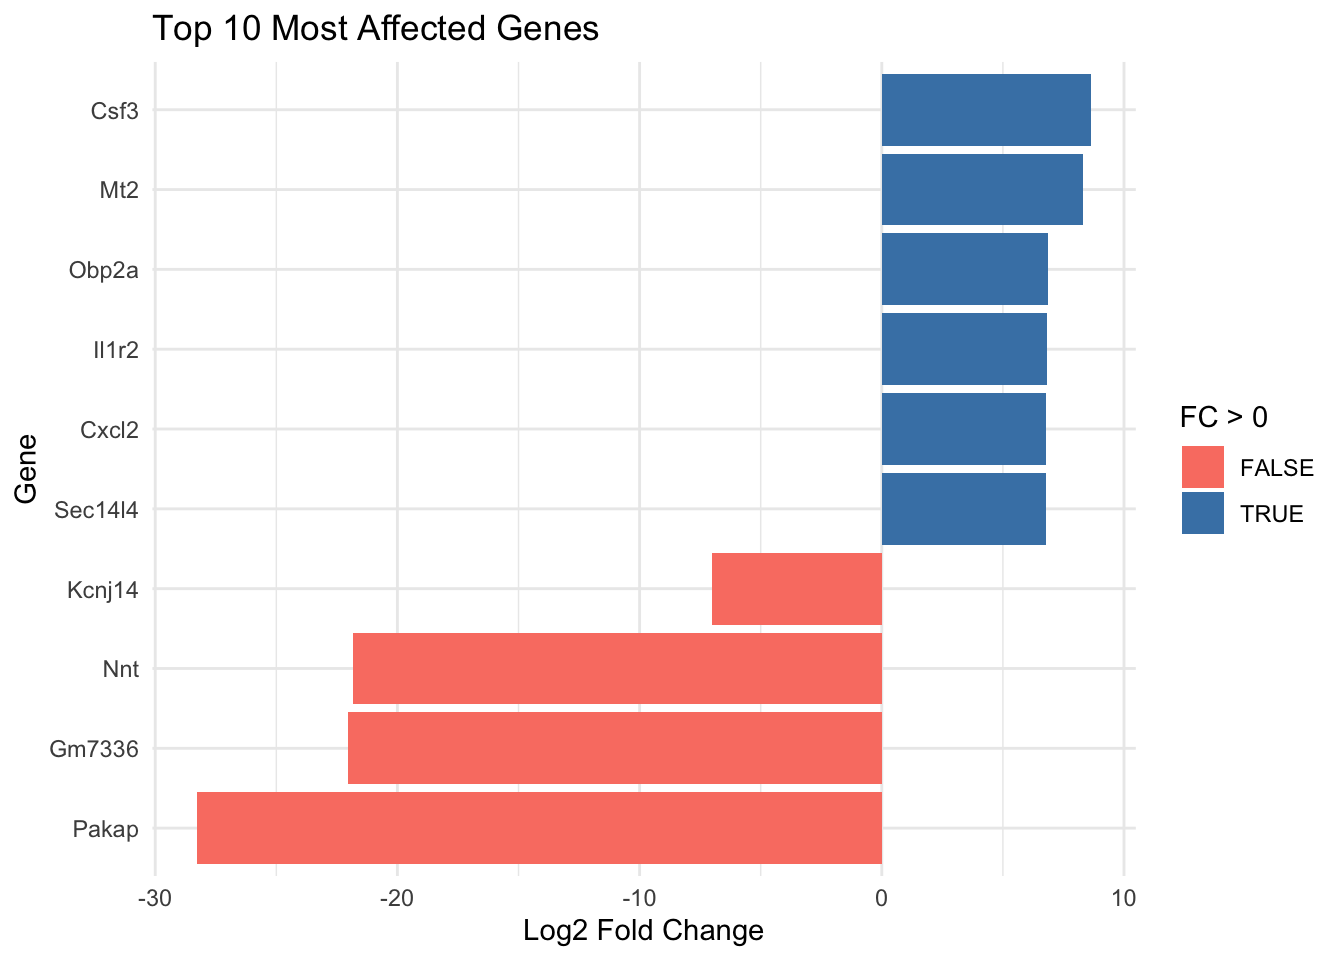
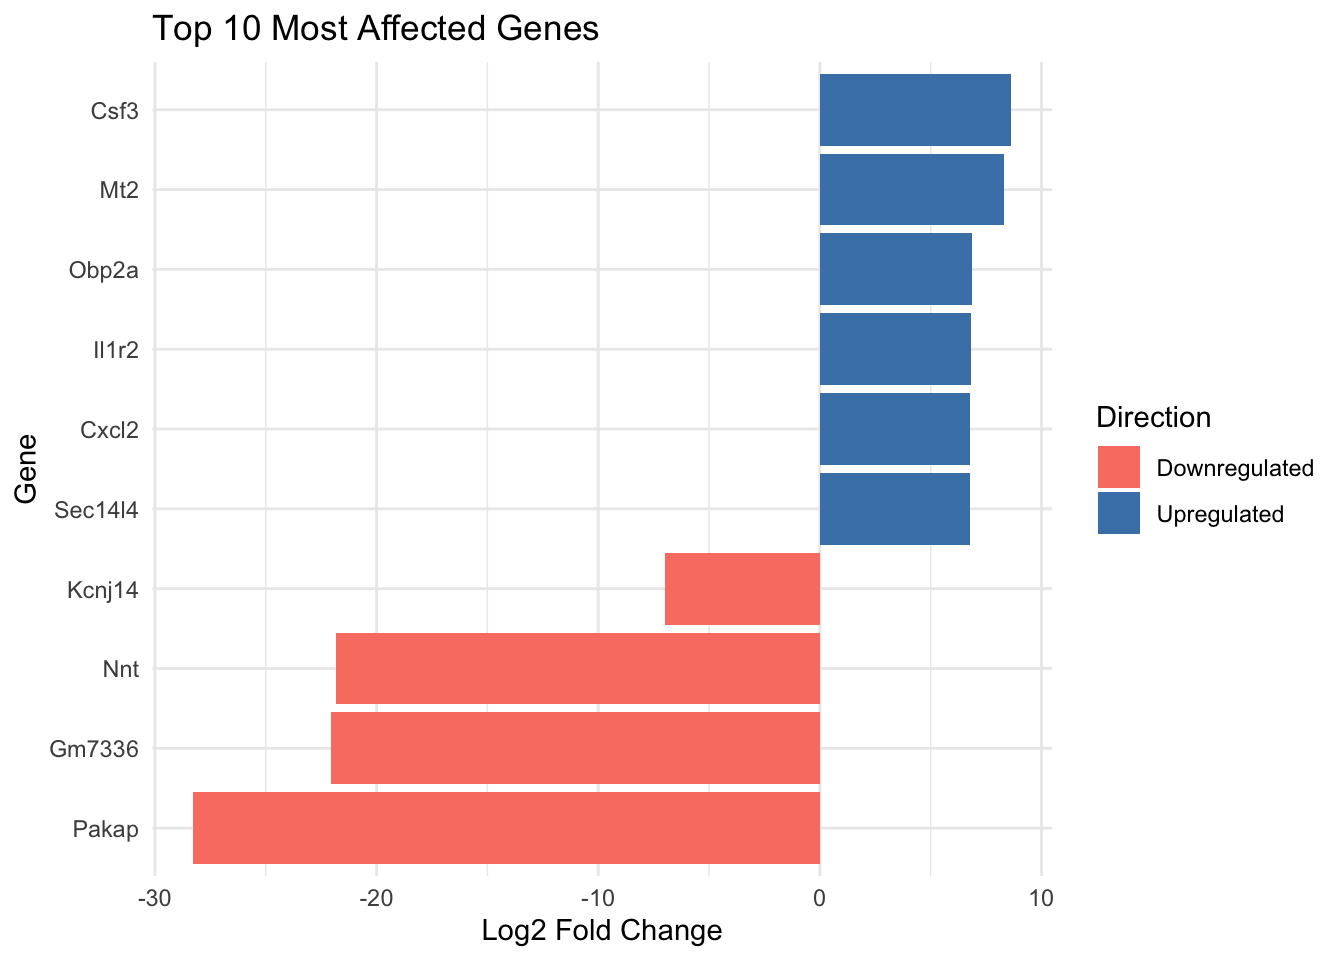
legend changes

diff --git a/_site/Projects/Project_title.html b/_site/Projects/Project_title.html
@@ -177,7 +177,13 @@ pre > code.sourceCode > span > a:first-child::before { text-decoration: underlin
 </div>
 <p>Sepsis begins as a primary infection. Like any other infection, Endothelial cells are a part of your first responders that directly and indirectly respond to pathogens. To that end, endothelial cells become activated where they undergo phenotypic changes to better attack a pathogen. This includes increasing their vascular permeability. So normally EC have tight barrier functions, however, they will diminish those barrier properties in order for leukocytes to extravasate into the tissue to help fight the pathogen. ECs with also increase their inflammatory response so they will be secreting cytokines to further recruit an immune response. ECs will also switch to a more procoagulant state so they can trap the pathogen from entering circulation. However, as the pathogen persists in cases like sepsis , these phenotypic changes that were once helpful in clearing the pathogen become detrimental to the host as the EC is unable to return to quiescence and this increased in vascular permeability gives rise to the vascular leakage driving organ dysfunction in sepsis complications.</p>
 <div class="column" style="width:80%;">
-<p><img src="ActivatedvsDysfunction.png" height="300" alt="Activated vs Dysfunctional Endothelium"> In order to look at endothelial cells specifically, my lab uses I am using a Cdh5-driven inducible cre to produce a hemagglutinin tagged ribosomal protein 22. So by tissue harvest follow by immunoprecipitation of the hemaglutein tagged polyribosomes, I can capture the actively translated mRNA from endothelial cells and determine which transcripts are enriched or depleted in endothelial cells based off an enrichment score based off IP-selected mRNA over the total tissue mRNA.</p>
+<div class="quarto-figure quarto-figure-center">
+<figure class="figure">
+<p><img src="ActivatedvsDysfunction.png" height="300" class="figure-img"></p>
+<figcaption>Activated vs Dysfunctional Endothelium</figcaption>
+</figure>
+</div>
+<p>In order to look at endothelial cells specifically, my lab uses I am using a Cdh5-driven inducible cre to produce a hemagglutinin tagged ribosomal protein 22. So by tissue harvest follow by immunoprecipitation of the hemaglutein tagged polyribosomes, I can capture the actively translated mRNA from endothelial cells and determine which transcripts are enriched or depleted in endothelial cells based off an enrichment score based off IP-selected mRNA over the total tissue mRNA.</p>
 <div class="column" style="width:100%;">
 <div class="quarto-figure quarto-figure-center">
 <figure class="figure">
@@ -196,8 +202,8 @@ pre > code.sourceCode > span > a:first-child::before { text-decoration: underlin
 <span id="cb1-5"><a href="#cb1-5" aria-hidden="true" tabindex="-1"></a>df <span class="ot">&lt;-</span> <span class="fu">read.table</span>(<span class="st">"FSIvsControlBead.csv"</span>, <span class="at">sep =</span> <span class="st">','</span>)</span></code><button title="Copy to Clipboard" class="code-copy-button"><i class="bi"></i></button></pre></div>
 </div>
 </section>
-<section id="step-2-set-appropriate-thresholds-for-the-data-i-am-interested-in" class="level1">
-<h1>Step 2: Set appropriate thresholds for the data I am interested in</h1>
+<section id="step-2-set-appropriate-thresholds" class="level1">
+<h1>Step 2: Set appropriate thresholds</h1>
 <div class="cell">
 <div class="sourceCode cell-code" id="cb2"><pre class="sourceCode r code-with-copy"><code class="sourceCode r"><span id="cb2-1"><a href="#cb2-1" aria-hidden="true" tabindex="-1"></a>fc_threshold <span class="ot">&lt;-</span> <span class="dv">1</span></span>
 <span id="cb2-2"><a href="#cb2-2" aria-hidden="true" tabindex="-1"></a>padj_threshold <span class="ot">&lt;-</span> <span class="fl">0.05</span></span></code><button title="Copy to Clipboard" class="code-copy-button"><i class="bi"></i></button></pre></div>
@@ -304,7 +310,16 @@ pre > code.sourceCode > span > a:first-child::before { text-decoration: underlin
 9           4.79000e-23 3.400000e-20
 10          9.14820e-04 1.807352e-02</code></pre>
 </div>
-<div class="sourceCode cell-code" id="cb12"><pre class="sourceCode r code-with-copy"><code class="sourceCode r"><span id="cb12-1"><a href="#cb12-1" aria-hidden="true" tabindex="-1"></a><span class="fu">ggplot</span>(top_genes, <span class="fu">aes</span>(<span class="at">x =</span> <span class="fu">reorder</span>(symbol, FC), <span class="at">y =</span> FC, <span class="at">fill =</span> FC <span class="sc">&gt;</span> <span class="dv">0</span>)) <span class="sc">+</span> <span class="fu">geom_col</span>() <span class="sc">+</span> <span class="fu">coord_flip</span>() <span class="sc">+</span> <span class="fu">labs</span>(<span class="at">title =</span> <span class="st">"Top 10 Most Affected Genes"</span>, <span class="at">x =</span> <span class="st">"Gene"</span>, <span class="at">y =</span> <span class="st">"Log2 Fold Change"</span>) <span class="sc">+</span> <span class="fu">scale_fill_manual</span>(<span class="at">values =</span> <span class="fu">c</span>(<span class="st">"TRUE"</span> <span class="ot">=</span> <span class="st">"steelblue"</span>, <span class="st">"FALSE"</span> <span class="ot">=</span> <span class="st">"salmon"</span>)) <span class="sc">+</span> <span class="fu">theme_minimal</span>()</span></code><button title="Copy to Clipboard" class="code-copy-button"><i class="bi"></i></button></pre></div>
+<div class="sourceCode cell-code" id="cb12"><pre class="sourceCode r code-with-copy"><code class="sourceCode r"><span id="cb12-1"><a href="#cb12-1" aria-hidden="true" tabindex="-1"></a><span class="fu">ggplot</span>(top_genes, <span class="fu">aes</span>(<span class="at">x =</span> <span class="fu">reorder</span>(symbol, FC), <span class="at">y =</span> FC, <span class="at">fill =</span> FC <span class="sc">&gt;</span> <span class="dv">0</span>)) <span class="sc">+</span> </span>
+<span id="cb12-2"><a href="#cb12-2" aria-hidden="true" tabindex="-1"></a>  <span class="fu">geom_col</span>() <span class="sc">+</span> </span>
+<span id="cb12-3"><a href="#cb12-3" aria-hidden="true" tabindex="-1"></a>  <span class="fu">coord_flip</span>() <span class="sc">+</span> </span>
+<span id="cb12-4"><a href="#cb12-4" aria-hidden="true" tabindex="-1"></a>  <span class="fu">labs</span>(<span class="at">title =</span> <span class="st">"Top 10 Most Affected Genes"</span>, </span>
+<span id="cb12-5"><a href="#cb12-5" aria-hidden="true" tabindex="-1"></a>       <span class="at">x =</span> <span class="st">"Gene"</span>, </span>
+<span id="cb12-6"><a href="#cb12-6" aria-hidden="true" tabindex="-1"></a>       <span class="at">y =</span> <span class="st">"Log2 Fold Change"</span>) <span class="sc">+</span> </span>
+<span id="cb12-7"><a href="#cb12-7" aria-hidden="true" tabindex="-1"></a>  <span class="fu">scale_fill_manual</span>(<span class="at">name =</span> <span class="st">"Direction"</span>, </span>
+<span id="cb12-8"><a href="#cb12-8" aria-hidden="true" tabindex="-1"></a>                    <span class="at">values =</span> <span class="fu">c</span>(<span class="st">"TRUE"</span> <span class="ot">=</span> <span class="st">"steelblue"</span>, <span class="st">"FALSE"</span> <span class="ot">=</span> <span class="st">"salmon"</span>), </span>
+<span id="cb12-9"><a href="#cb12-9" aria-hidden="true" tabindex="-1"></a>                    <span class="at">labels =</span> <span class="fu">c</span>(<span class="st">"FALSE"</span> <span class="ot">=</span> <span class="st">"Downregulated"</span>, <span class="st">"TRUE"</span> <span class="ot">=</span> <span class="st">"Upregulated"</span>)) <span class="sc">+</span> </span>
+<span id="cb12-10"><a href="#cb12-10" aria-hidden="true" tabindex="-1"></a>  <span class="fu">theme_minimal</span>()</span></code><button title="Copy to Clipboard" class="code-copy-button"><i class="bi"></i></button></pre></div>
 <div class="cell-output-display">
 <div>
 <figure class="figure">

diff --git a/_site/projects.html b/_site/projects.html
@@ -212,7 +212,7 @@ Author
 </tr>
 </thead>
 <tbody class="list">
-<tr data-index="0" data-listing-file-modified-sort="1753210291905" data-listing-reading-time-sort="3" data-listing-word-count-sort="552" data-listing-title-sort="Which Endothelial genes are enriched under murine sepsis treatment?" data-listing-filename-sort="Project_title.qmd">
+<tr data-index="0" data-listing-file-modified-sort="1753211491165" data-listing-reading-time-sort="4" data-listing-word-count-sort="619" data-listing-title-sort="Which Endothelial genes are enriched under murine sepsis treatment?" data-listing-filename-sort="Project_title.qmd">
 <td>
 <a href="./projects/Project_title.html" class="title listing-title">Which Endothelial genes are enriched under murine sepsis treatment?</a>
 </td>
